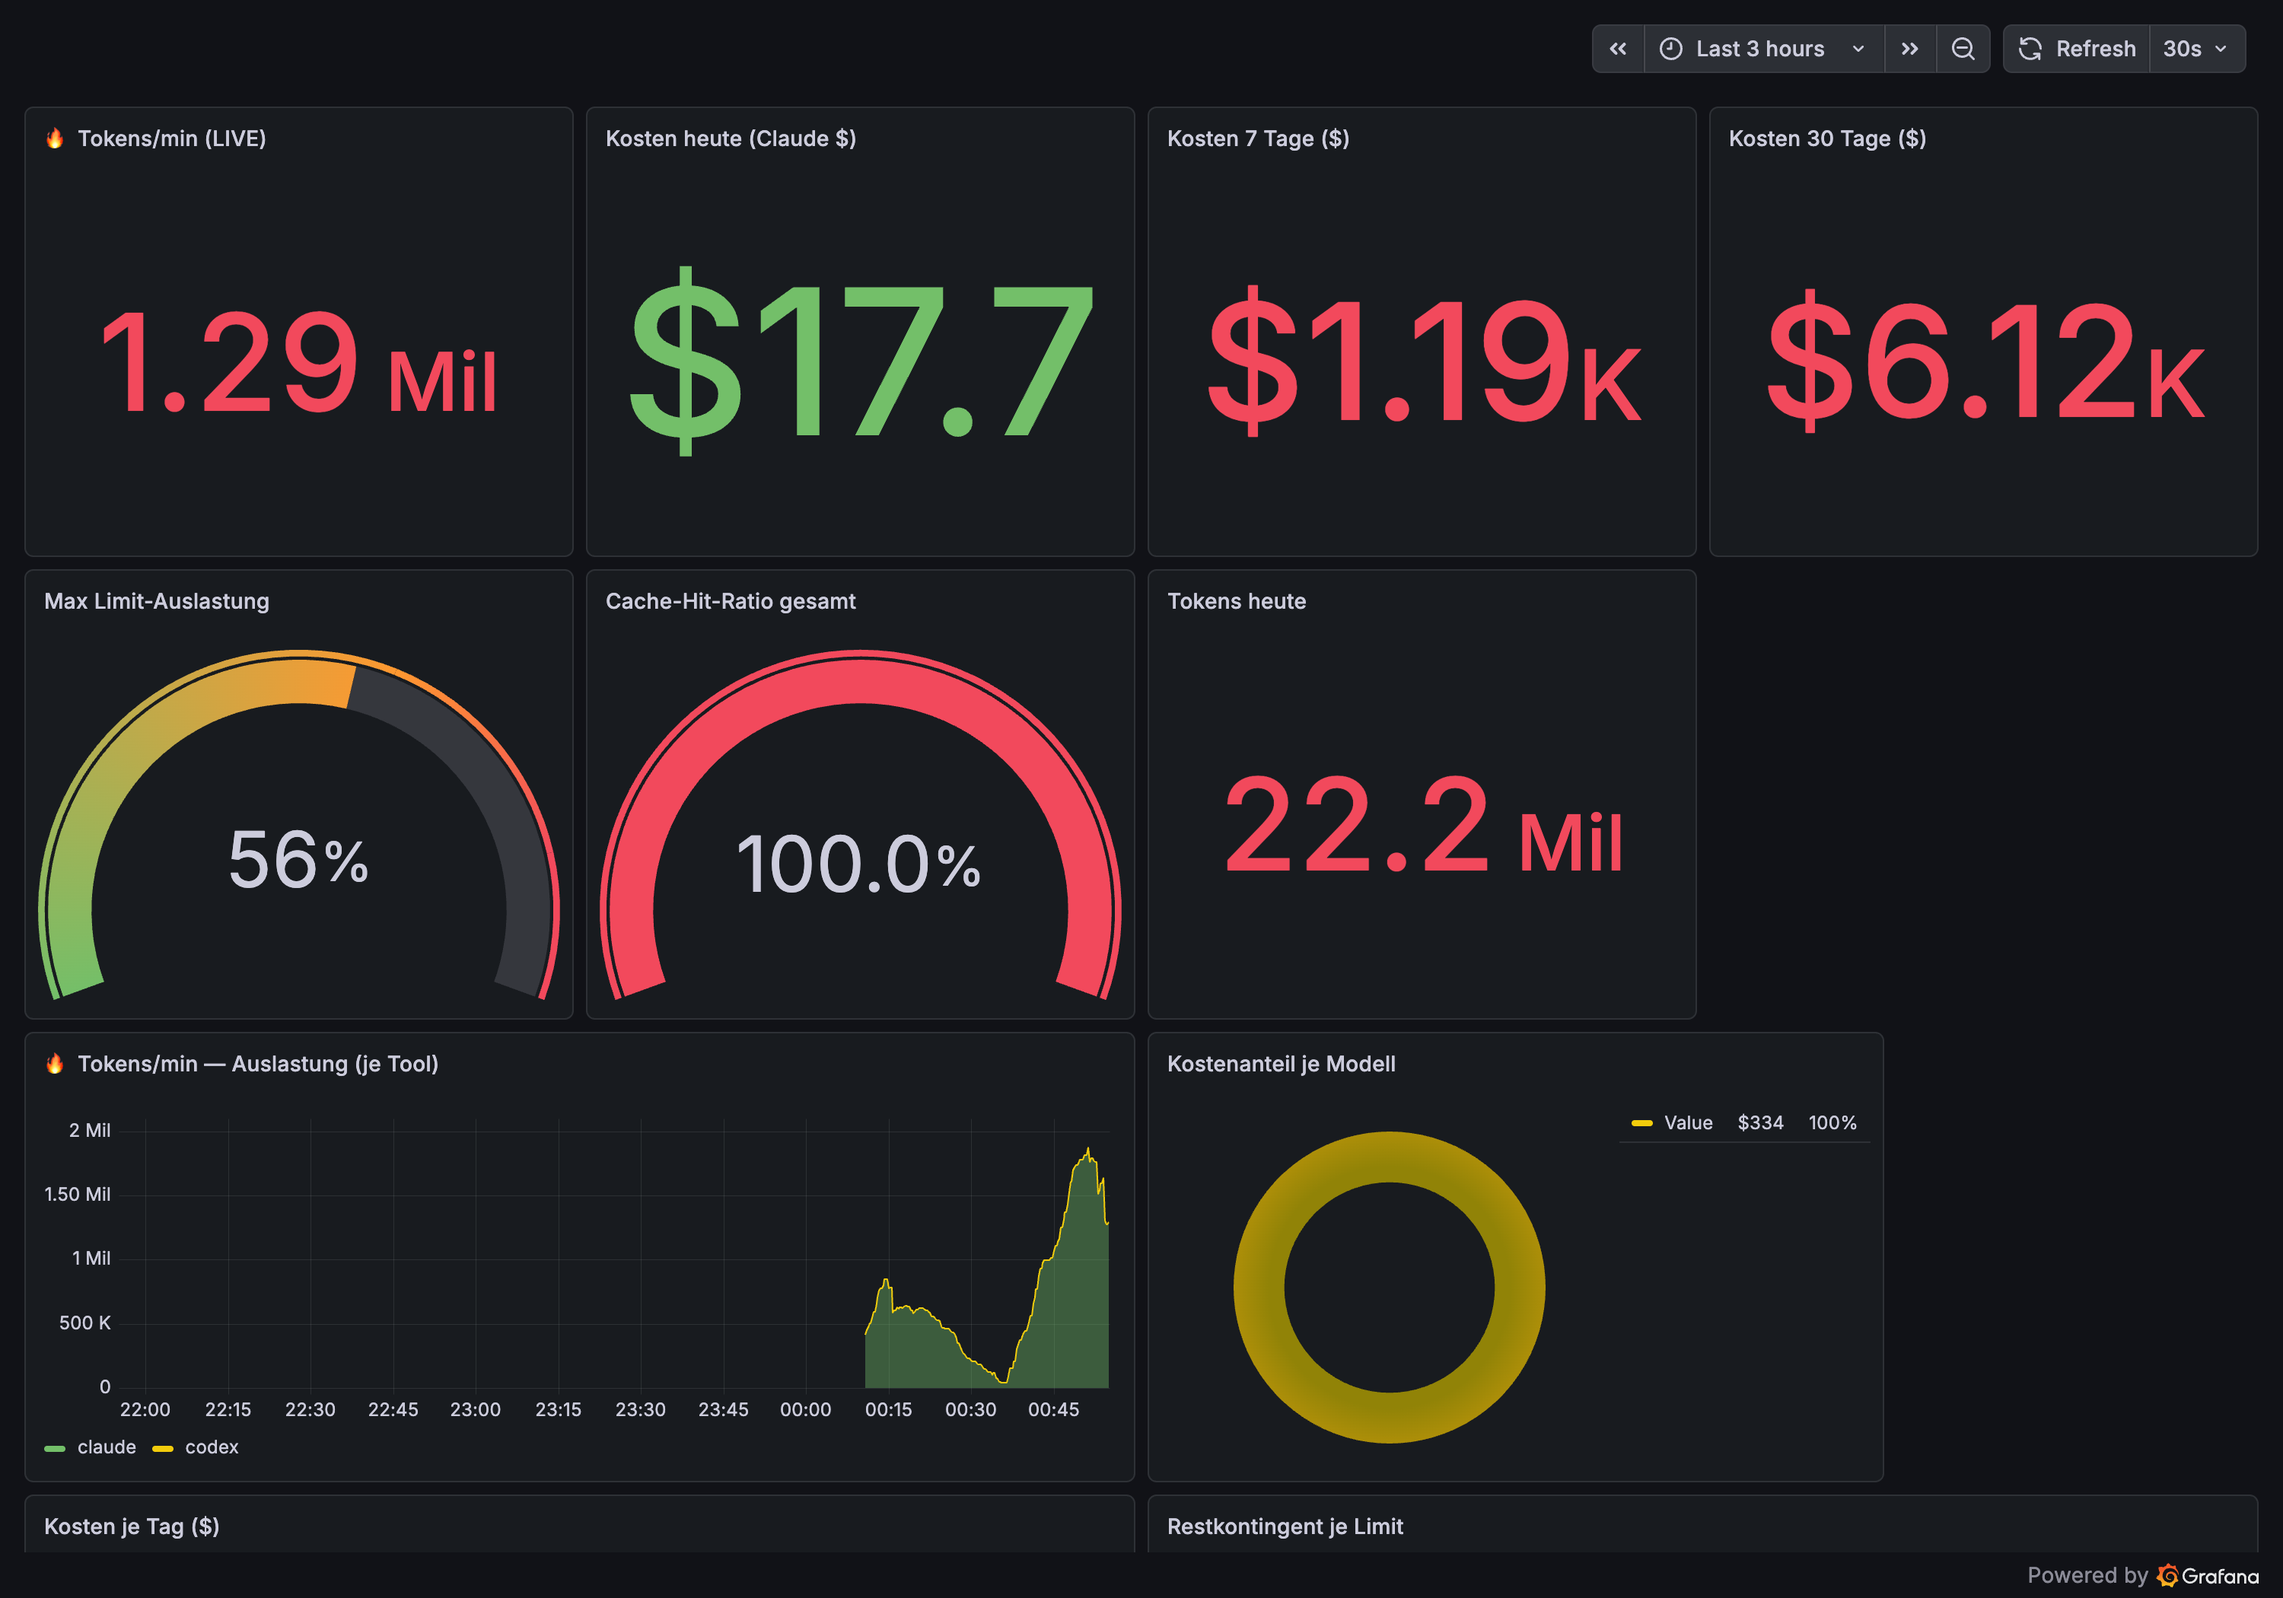
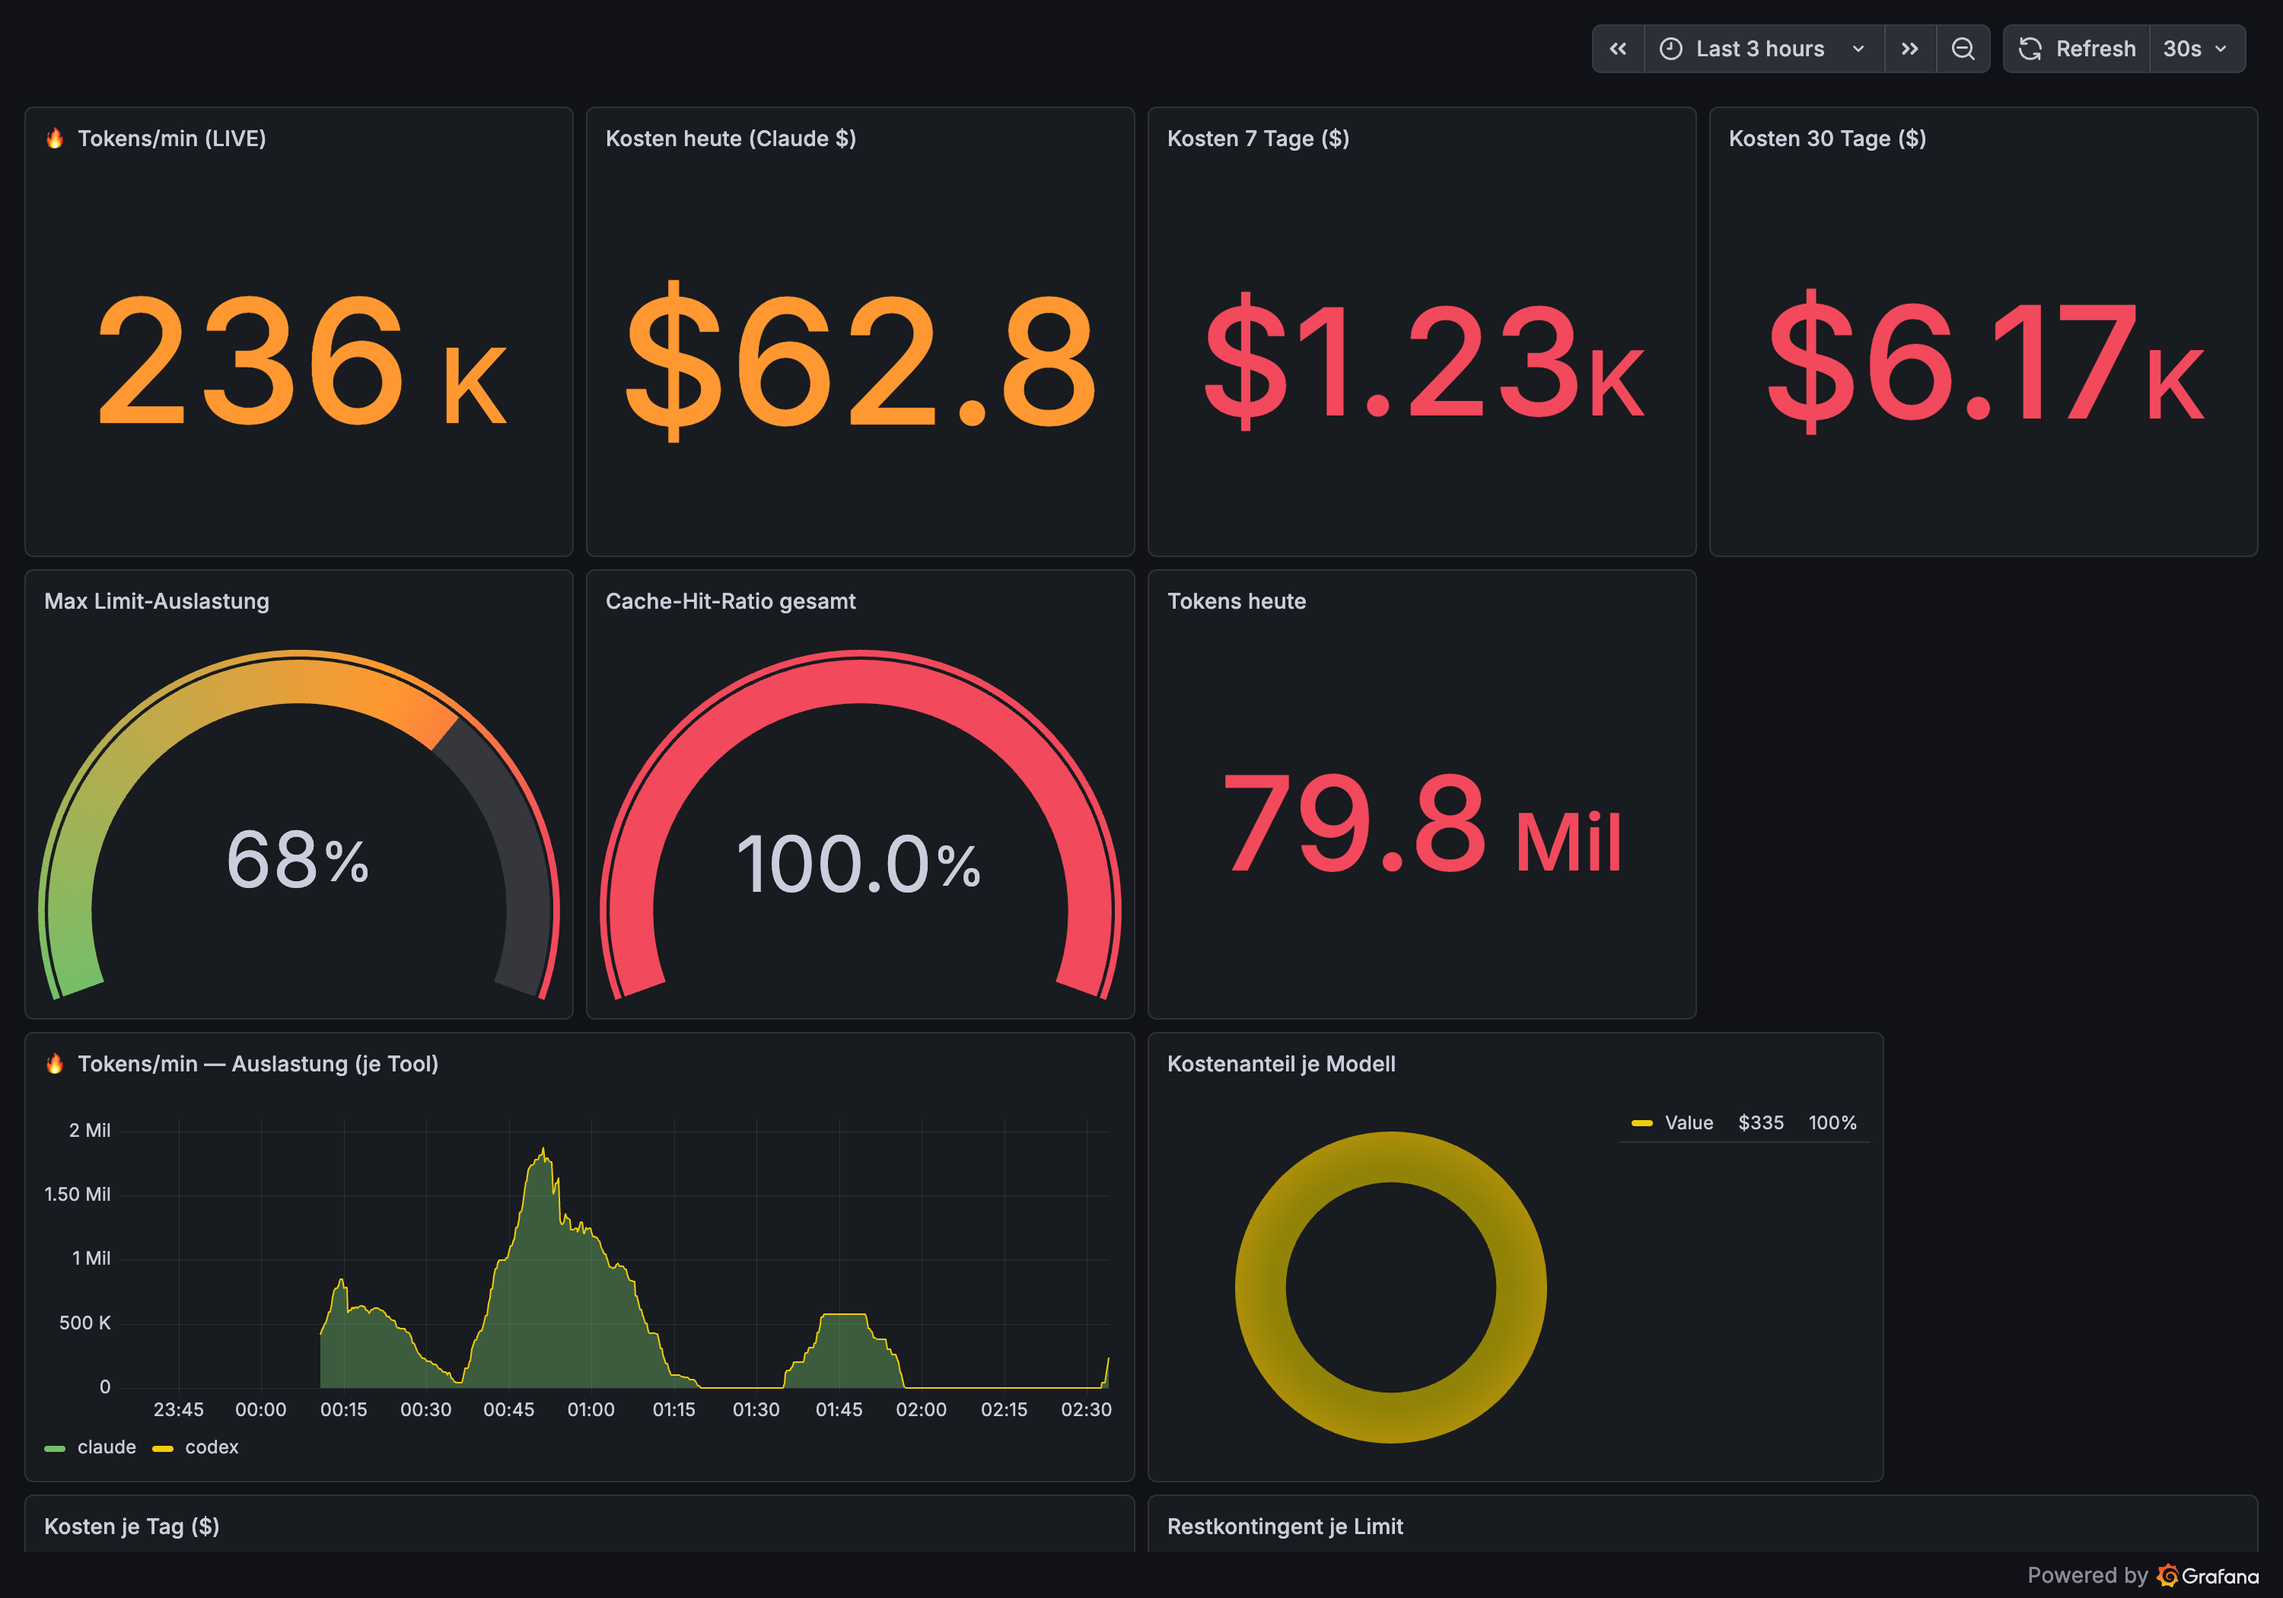
fix(dashboards): render 0 instead of "No data" on empty today-window tiles
Wrap today-window aggregations in `(… or vector(0))` so the Kosten heute / Tokens
heute headline tiles always show a number even when the window is momentarily empty
(stale CodexBar export or early in the day). Affects grafana-build-all (cwin/twin),
grafana-build-index, grafana-build-agents. Re-captured the 10 public KPI screenshots —
Executive Overview now shows Kosten heute $62.8 / Tokens heute 79.8 Mil.

Proof: proof/e2e/no-data-fix.md (live before/after queries).

diff --git a/proof/e2e/no-data-fix.md b/proof/e2e/no-data-fix.md
@@ -1,0 +1,28 @@
+# Proof — fix: 'No data' on today-window headline tiles
+
+Captured: 2026-05-31T00:36:13Z
+
+## Problem
+Executive Overview / Mission-Control / live-agents 'Kosten heute' + 'Tokens heute' tiles
+rendered Grafana's **No data** whenever the `window="today"` series was momentarily
+empty (stale CodexBar export, or early in the day before any usage).
+
+## Fix
+Wrap the today aggregations in `(… or vector(0))` so an empty window renders **0**, not
+No data — in `grafana-build-all.mjs` (cwin/twin helpers), `grafana-build-index.mjs`,
+`grafana-build-agents.mjs`.
+
+## Verification (live @ :9490)
+```
+# the idiom: a deliberately-empty window now yields 0 instead of an empty result
+$ sum(airate_cost_usd_window{window="zzz"})              -> EMPTY (=No data)
+$ (sum(airate_cost_usd_window{window="zzz"}) or vector(0)) -> 0
+
+# real today values now populate the tiles
+$ Kosten heute  -> $62.76
+$ Tokens heute -> 79788296
+```
+
+## Before / After
+- Before: committed `proof/grafana/lrn-exec.png` showed 'Kosten heute = No data', 'Tokens heute = No data'.
+- After: re-captured `proof/grafana/lrn-exec.png` shows 'Kosten heute $62.8', 'Tokens heute 79.8 Mil'.

diff --git a/proof/e2e/FEATURES.md b/proof/e2e/FEATURES.md
@@ -11,6 +11,7 @@ committed here. Generated 2026-05-31.
 | 3 | **Skill** that implements the whole screenshot→README workflow | ✅ | `.claude/skills/grafana-readme-shots/SKILL.md` |
 | 4 | **End-to-end test** of the pipeline | ✅ | `proof/e2e/grafana-shots-e2e.txt` (1 pass) · `proof/e2e/unit-tests.txt` (17 pass) · `test/grafana-shots.e2e.mjs` |
 | 5 | **Commit + push**, GitHub link, 10 shots readable in the README (mobile-friendly) | ✅ | `proof/e2e/github-live.txt` (10 KPI images HTTP 200 on `master`; health boards 404; PR #1 MERGED) · live: <https://github.com/Martin-Hausleitner/limit-reset-notifier#dashboard-gallery> |
+| 6 | **Follow-up fix:** today-window tiles showed `No data` when empty | ✅ | `proof/e2e/no-data-fix.md` (`or vector(0)` idiom; live before/after queries) · re-captured `proof/grafana/lrn-exec.png` now shows Kosten/Tokens heute |
 
 ## Privacy decision (honoured)
 The repo is **public** and `proof/grafana/` is git-ignored as "personal-data … keep local".
